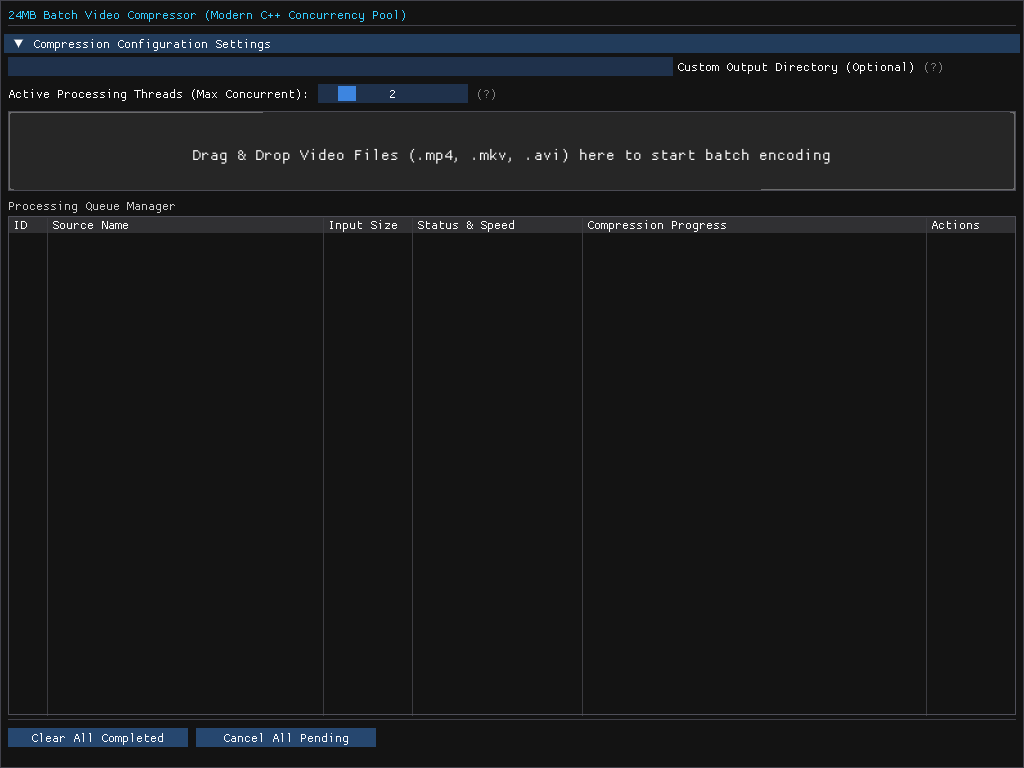
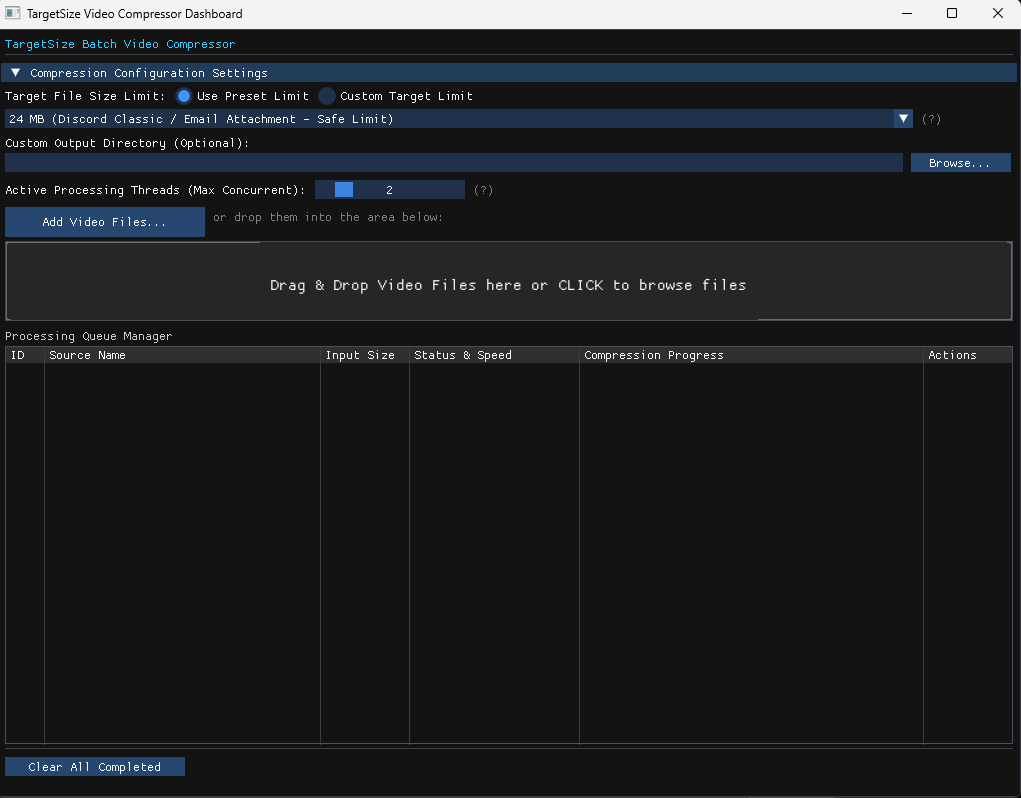
fix: improve process output parsing for real-time progress and clean up logging

Changed region(s): [[0.0, 0.0, 1.0, 0.4688], [0.0, 0.9062, 0.9716, 1.0], [0.2733, 0.3438, 0.7287, 0.375]]

diff --git a/src/ProcessRunnerWin.cpp b/src/ProcessRunnerWin.cpp
@@ -58,14 +58,22 @@ public:
     bool readLine(std::string& line) override {
         if (!hReadPipe) return false;
 
-        // Check if we already have a complete line in our buffer
-        size_t pos = pipeBuffer.find('\n');
-        if (pos != std::string::npos) {
-            line = pipeBuffer.substr(0, pos);
-            if (!line.empty() && line.back() == '\r') {
-                line.pop_back();
+        auto extractLine = [this, &line]() -> bool {
+            size_t pos = pipeBuffer.find_first_of("\r\n");
+            if (pos != std::string::npos) {
+                line = pipeBuffer.substr(0, pos);
+                char delim = pipeBuffer[pos];
+                size_t toErase = 1;
+                if (delim == '\r' && pos + 1 < pipeBuffer.size() && pipeBuffer[pos + 1] == '\n') {
+                    toErase = 2;
+                }
+                pipeBuffer.erase(0, pos + toErase);
+                return true;
             }
-            pipeBuffer.erase(0, pos + 1);
+            return false;
+        };
+
+        if (extractLine()) {
             return true;
         }
 
@@ -93,19 +101,11 @@ public:
         DWORD toRead = (bytesAvail < sizeof(buffer) - 1) ? bytesAvail : (sizeof(buffer) - 1);
         if (ReadFile(hReadPipe, buffer, toRead, &bytesRead, nullptr) && bytesRead > 0) {
             pipeBuffer.append(buffer, bytesRead);
-            
-            pos = pipeBuffer.find('\n');
-            if (pos != std::string::npos) {
-                line = pipeBuffer.substr(0, pos);
-                if (!line.empty() && line.back() == '\r') {
-                    line.pop_back();
-                }
-                pipeBuffer.erase(0, pos + 1);
-                return true;
-            }
+            return extractLine();
         }
         return false;
     }
+
 
     void terminate() override {
         if (hProcess) {

diff --git a/src/main.cpp b/src/main.cpp
@@ -126,7 +126,6 @@ int main() {
         strncpy_s(outputFolderBuffer, savedOutputDir.c_str(), sizeof(outputFolderBuffer) - 1);
     }
     int taskCounter = 0;
-    int frameCount = 0;
 
     // Presets configuration
     struct TargetSizePreset {
@@ -145,11 +144,7 @@ int main() {
     float customTargetSizeMB = 25.0f;
     bool useCustomSize = false;
 
-    std::println("Entering main event loop...");
     while (!WindowShouldClose()) {
-        if (frameCount < 10) {
-            std::println("Main loop tick #{} (frame time: {:.2f}ms)", frameCount++, GetFrameTime() * 1000.0f);
-        }
         // Handle window resizing
         int currentWidth = GetScreenWidth();
         int currentHeight = GetScreenHeight();